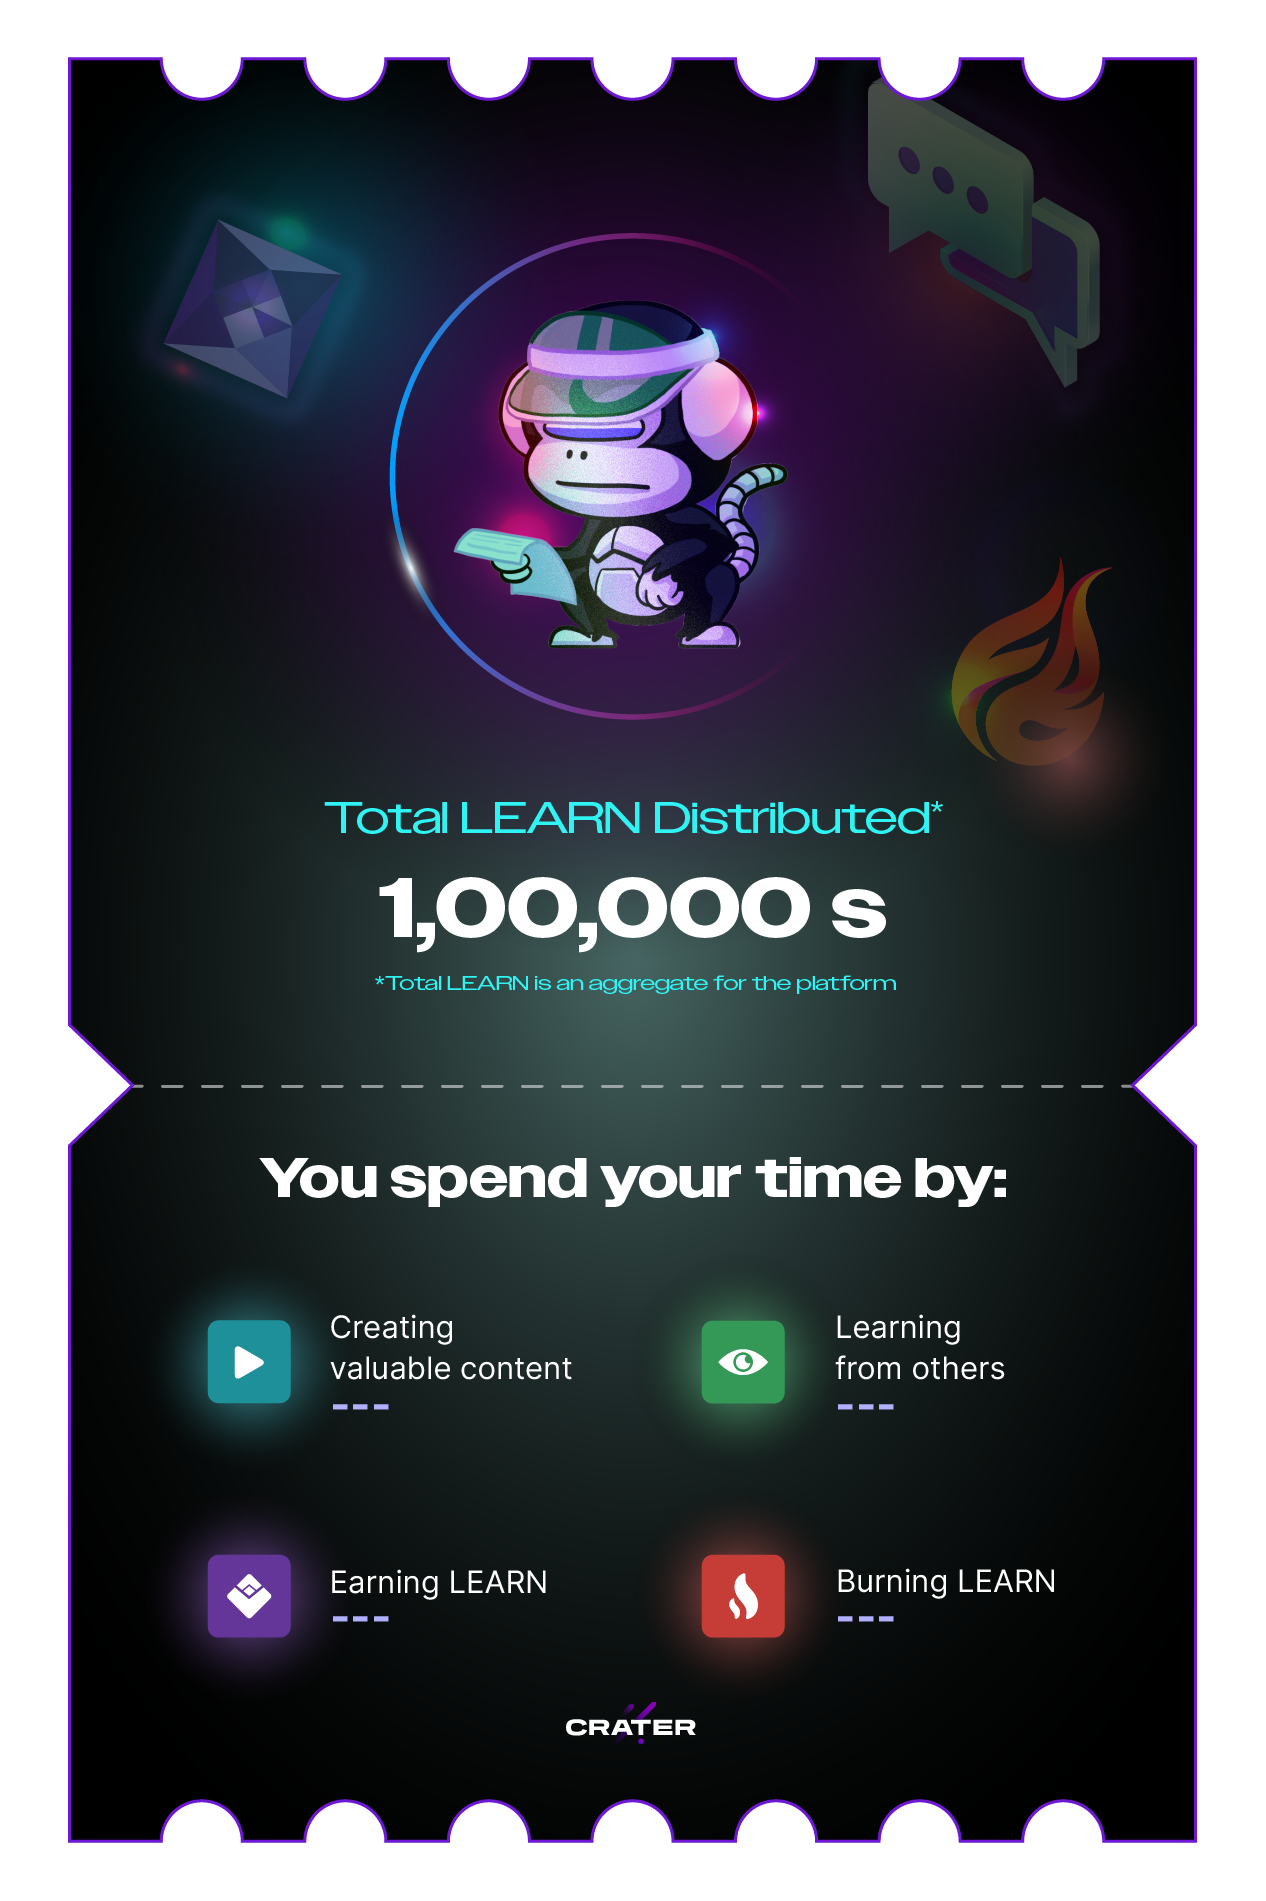
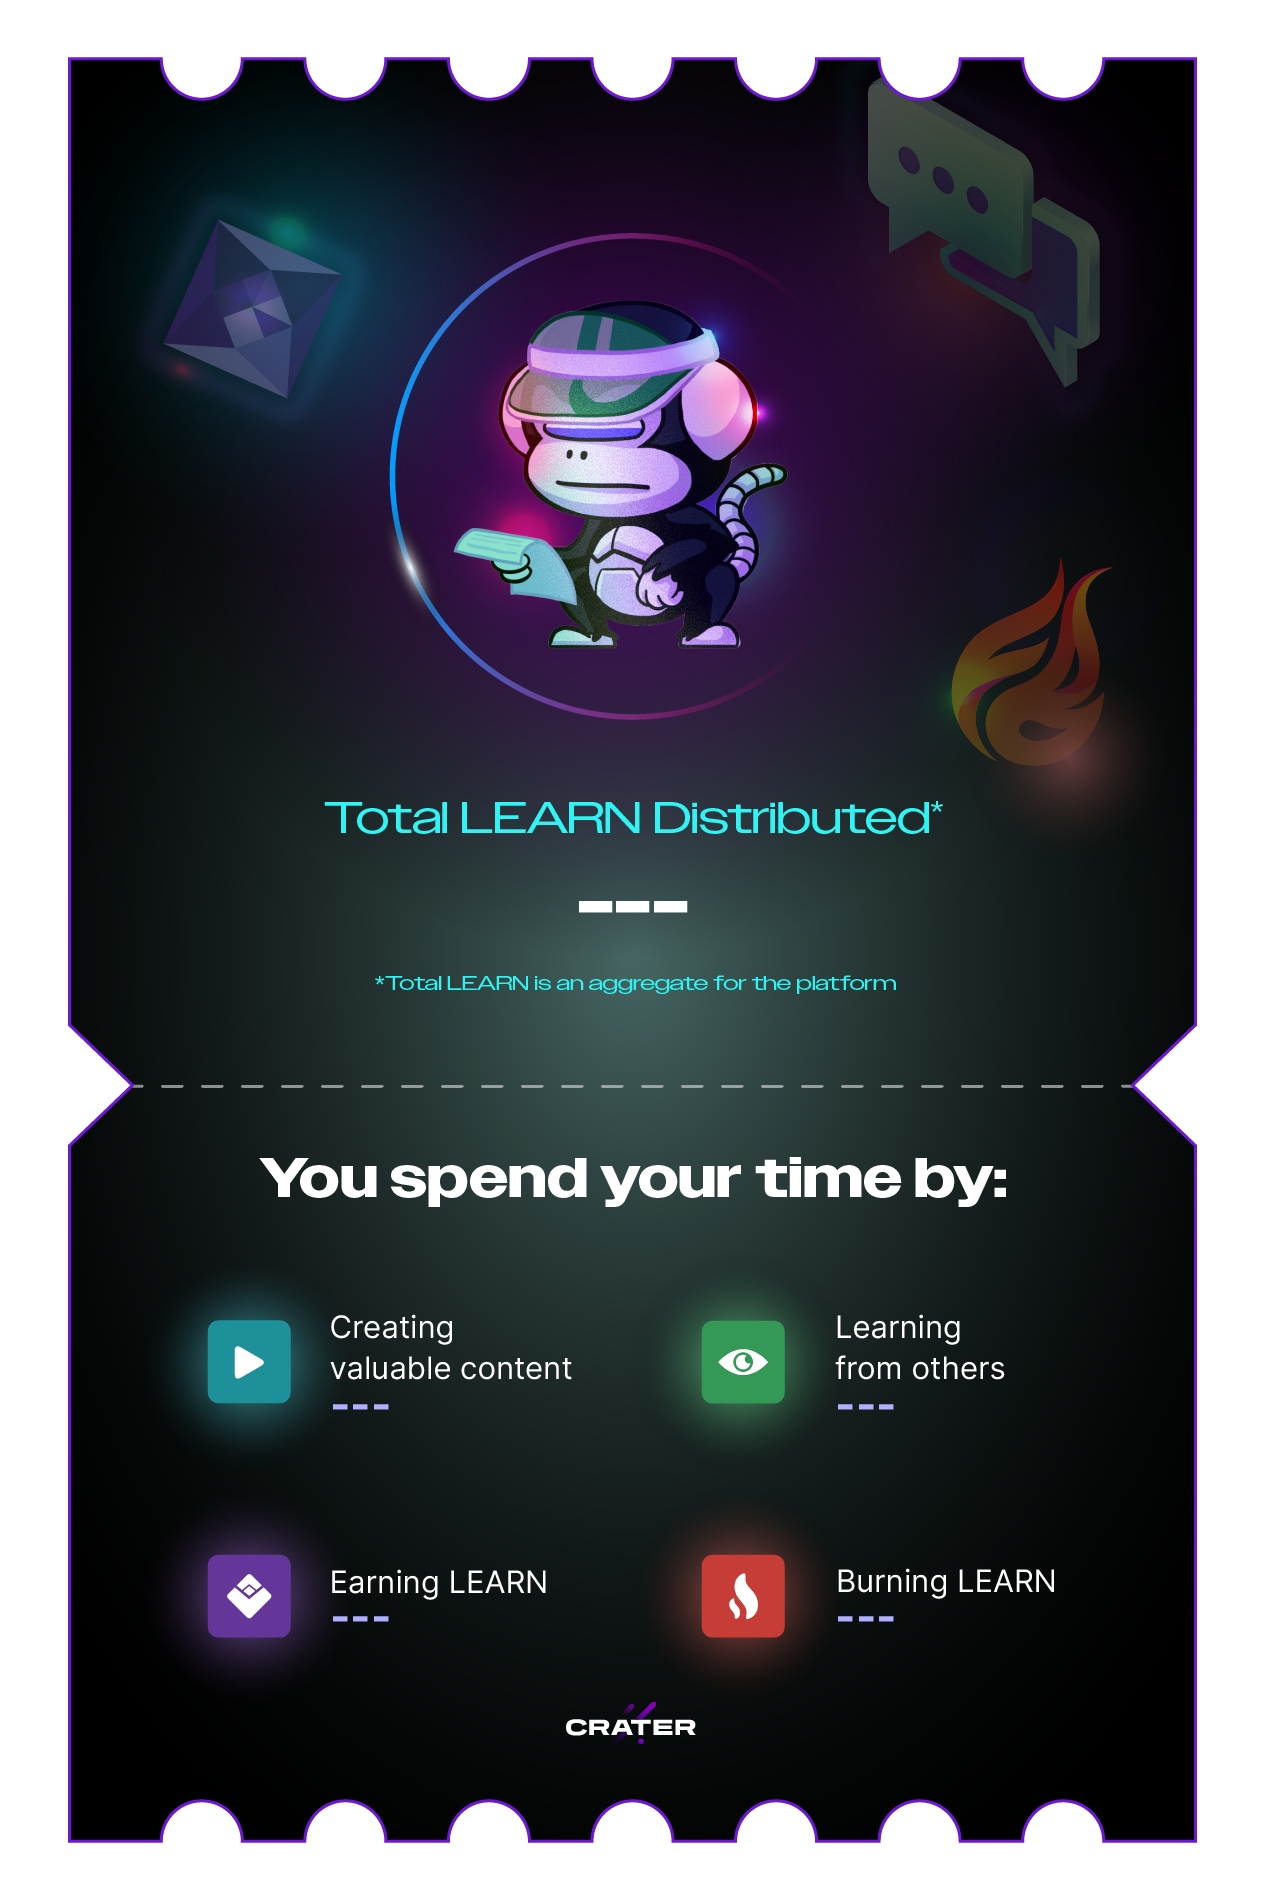
Updated modal styles and image

Changed region(s): [[0.3081, 0.4655, 0.7085, 0.4966]]

diff --git a/lib/stream/components/objects/LearnNEarnModal/index.tsx b/lib/stream/components/objects/LearnNEarnModal/index.tsx
@@ -1,5 +1,5 @@
 import STATIC_IMAGES from "public/images";
-import { useTheme } from "styled-components";
+import styled, { useTheme } from "styled-components";
 
 import Image from "next/image";
 
@@ -10,6 +10,29 @@ import { WEB3_CRATER_LANDING } from "@/common/constants/url.constants";
 import DataItem from "./DataItem";
 import useLearnModalContext from "./context";
 
+const StyledText = styled(Text)`
+  position: relative;
+  background: transparent;
+  padding: 0.5em 0.8em;
+
+  &::before {
+    content: "";
+    position: absolute;
+    top: 0;
+    left: 0;
+    right: 0;
+    bottom: 0;
+    border-radius: 4px;
+    border: 2px solid transparent;
+    background: linear-gradient(45deg, #f1616a, #9146ff, #9db3ff, #0d849e)
+      border-box;
+    -webkit-mask: linear-gradient(#fff 0 0) padding-box,
+      linear-gradient(#fff 0 0);
+    -webkit-mask-composite: destination-out;
+    mask-composite: exclude;
+  }
+`;
+
 export default function LearnNEarnModal(): JSX.Element {
   const { space, colors } = useTheme();
   const { visible, setVisible } = useLearnModalContext();
@@ -18,54 +41,68 @@ export default function LearnNEarnModal(): JSX.Element {
     <Modal visible={visible} maxWidth="80vw" onClose={() => setVisible(false)}>
       <Grid
         h="100%"
-        px={space.xs}
+        px={[space.xxs, space.s]}
         py={space.xs}
-        gridTemplateRows="max-content 1fr max-content"
+        gridAutoFlow="row"
+        justifyContent="center"
+        alignItems="center"
       >
-        <Flex gridColumn="1 / span 2" flexDirection="column">
-          <Text textStyle="mainHeading">
-            Watch Web3 Content and earn tokens
-          </Text>
-          <Text w="80%" color={colors.textTertiary}>
-            Crater has partnered with HyFi to give you tokens while you learn
-            about Web3.
-          </Text>
-        </Flex>
-        <Grid
-          display={["none", "grid"]}
-          gridTemplateColumns="1fr 1fr"
+        <Flex
           alignItems="center"
+          flexDirection={["column", "row"]}
+          gridGap={space.xxs}
+          justifyContent="center"
         >
-          <Box position="relative" pt="100%">
-            <Image
-              layout="fill"
-              src={STATIC_IMAGES.ImageVisorMonkey}
-              alt="Visor Monkey"
-            />
-          </Box>
-          <Flex gridGap={space.xs} flexDirection="column">
-            <DataItem
-              icon="StreamColor"
-              label="Your Stream Time:"
-              rotation={135}
-            />
-            <DataItem icon="EyeColor" label="Your Watch Time:" rotation={155} />
-            <DataItem
-              icon="TokenColor"
-              label="Learn Tokens Earned:"
-              rotation={205}
-            />
-            <DataItem
-              icon="BurnColor"
-              label="Learn Tokens Burned:"
-              rotation={225}
-            />
+          <Flex flex="1" flexDirection="column">
+            <Text textStyle="mainHeading">
+              Watch Web3 Content and earn tokens
+            </Text>
+            <Text w="80%" color={colors.textTertiary}>
+              Crater has partnered with HyFi to give you tokens while you learn
+              about Web3.
+            </Text>
           </Flex>
-        </Grid>
+          <StyledText mr={space.xs}>Total Learn Minutes: --</StyledText>
+        </Flex>
 
-        <Grid>
-          <Box m="auto auto" w={240}>
-            <Text textAlign="center">Daily Bounty: --</Text>
+        <Grid gridTemplateColumns="1fr max-content" gridGap={space.xs}>
+          <Grid
+            display={["none", "grid"]}
+            gridTemplateColumns="1fr 1fr"
+            alignItems="center"
+          >
+            <Box position="relative" pt="100%">
+              <Image
+                layout="fill"
+                src={STATIC_IMAGES.ImageVisorMonkey}
+                alt="Visor Monkey"
+              />
+            </Box>
+            <Flex gridGap={space.xs} flexDirection="column">
+              <DataItem
+                icon="StreamColor"
+                label="Your Stream Time:"
+                rotation={135}
+              />
+              <DataItem
+                icon="EyeColor"
+                label="Your Watch Time:"
+                rotation={155}
+              />
+              <DataItem
+                icon="TokenColor"
+                label="Learn Tokens Earned:"
+                rotation={205}
+              />
+              <DataItem
+                icon="BurnColor"
+                label="Learn Tokens Burned:"
+                rotation={225}
+              />
+            </Flex>
+          </Grid>
+
+          <Box m="0 auto" w={240}>
             <Image src={STATIC_IMAGES.ImageHyfiPlaceholder} alt="Hyfi Share" />
           </Box>
         </Grid>
@@ -74,7 +111,6 @@ export default function LearnNEarnModal(): JSX.Element {
           gridTemplateColumns={["1fr", "max-content 1fr"]}
           gridGap={space.xs}
           alignItems="center"
-          gridColumn="1 / span 2"
         >
           <Box gridRow={["2", "1"]}>
             <a href={WEB3_CRATER_LANDING} target="_blank" rel="noreferrer">
